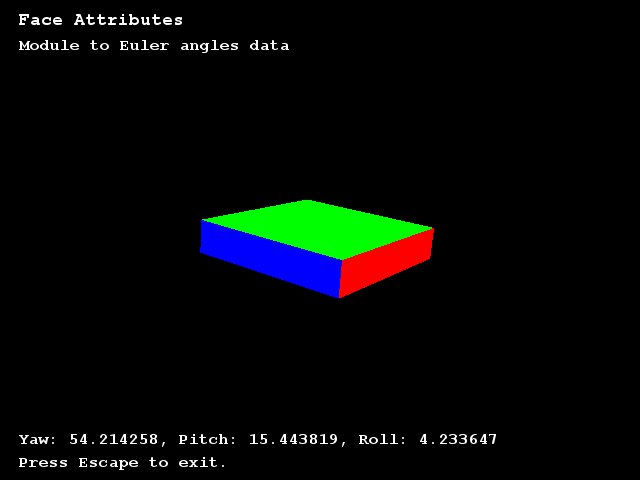
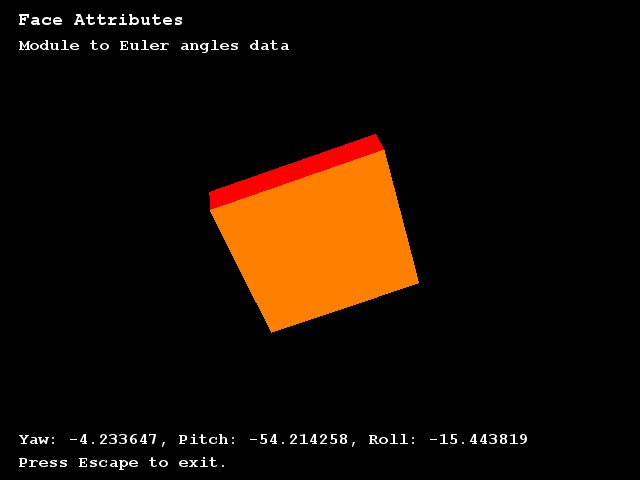
update

diff --git a/demo.py b/demo.py
@@ -4,7 +4,6 @@ import pickle
 import random
 
 import cv2 as cv
-import numpy as np
 import torch
 from PIL import Image
 
@@ -53,7 +52,7 @@ if __name__ == "__main__":
         img = transformer(img)
         inputs[i] = img
         label = sample['label']
-        label = [np.rad2deg(l) for l in label]
+        # label = [np.rad2deg(l) for l in label]
         sample_preds.append({'filename': filename, 'label': label})
 
     with torch.no_grad():
@@ -66,7 +65,8 @@ if __name__ == "__main__":
     for i in range(10):
         sample = sample_preds[i]
         ret = out[i].tolist()
-        ret = [np.rad2deg(l) for l in ret]
+        # ret = [np.rad2deg(l) for l in ret]
+        print((ret[0] ** 2 + ret[1] ** 2 + ret[2] ** 2) ** 0.5)
         sample['out'] = ret
 
     with open('sample_preds.json', 'w') as file:

diff --git a/rotate_cube.py b/rotate_cube.py
@@ -24,9 +24,9 @@ def main():
 
     for i in range(10):
         item = data[i]
-        pitch = -item['out'][1]
-        roll = item['out'][0]
-        yaw = -item['out'][2]
+        pitch = item['out'][2]
+        roll = item['out'][1]
+        yaw = -item['out'][0]
         draw(1, yaw, pitch, roll)
         pygame.image.save(screen, "images/{}_angle.jpg".format(i))
 
